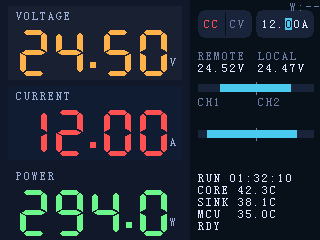
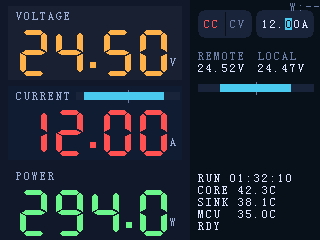
feat(ui): move current mirror bar
Move CH1/CH2 mirror bar next to the left CURRENT label.

Remove right-side CH1/CH2 block; update docs and UI images.

diff --git a/firmware/digital/src/ui/mod.rs b/firmware/digital/src/ui/mod.rs
@@ -43,6 +43,8 @@ const DEBUG_OVERLAY: bool = false;
 const CARD_TOPS: [i32; 3] = [0, 80, 160];
 const CARD_BG_LEFT: i32 = 8;
 const CARD_BG_RIGHT: i32 = 182;
+const MAIN_LABEL_X: i32 = 16;
+const MAIN_DIGITS_RIGHT: i32 = 170;
 // 背景在 Y 方向的偏移：与原设计保持上边距 6px，同时向下扩展到 +80，
 // 以完全覆盖 32x50 的七段字体（area.top = top+28，高度 50 → bottom=top+78）。
 const CARD_BG_TOP_OFFSET: i32 = 6;
@@ -50,7 +52,7 @@ const CARD_BG_BOTTOM_OFFSET: i32 = 80;
 
 // Right-side layout (logical 320×240 coordinate space).
 const VOLTAGE_PAIR_TOP: i32 = 50;
-const CHANNEL_CURRENT_PAIR_TOP: i32 = 96;
+const VOLTAGE_PAIR_BOTTOM: i32 = 96;
 const TELEMETRY_TOP: i32 = 172;
 
 // Control row layout: CC/CV mode + preset target selector.
@@ -195,6 +197,7 @@ pub fn render(frame: &mut RawFrameBuf<Rgb565, &mut [u8]>, data: &UiSnapshot) {
         80,
         rgb(0xFF5252),
     );
+    draw_current_mirror_bar(&mut canvas, data);
     draw_main_metric(
         &mut canvas,
         "POWER",
@@ -211,7 +214,6 @@ pub fn render(frame: &mut RawFrameBuf<Rgb565, &mut [u8]>, data: &UiSnapshot) {
         data.remote_voltage_text.as_str(),
         data.local_voltage_text.as_str(),
     );
-    draw_channel_current_pair(&mut canvas, data);
     draw_telemetry(&mut canvas, data);
 
     render_wifi_status(&mut canvas, data.wifi_status);
@@ -267,6 +269,7 @@ pub fn render_partial(
             80,
             rgb(0xFF5252),
         );
+        draw_current_mirror_bar(&mut canvas, curr);
         draw_main_metric(
             &mut canvas,
             "POWER",
@@ -280,12 +283,7 @@ pub fn render_partial(
     if mask.voltage_pair {
         // 清理右侧电压对所占区域的背景，再重绘标题和条形图。
         canvas.fill_rect(
-            Rect::new(
-                190,
-                VOLTAGE_PAIR_TOP,
-                LOGICAL_WIDTH,
-                CHANNEL_CURRENT_PAIR_TOP,
-            ),
+            Rect::new(190, VOLTAGE_PAIR_TOP, LOGICAL_WIDTH, VOLTAGE_PAIR_BOTTOM),
             rgb(0x080f19),
         );
         let remote_text = curr.remote_voltage_text.as_str();
@@ -294,12 +292,8 @@ pub fn render_partial(
     }
 
     if mask.channel_currents {
-        // 右侧两路电流通道信息：先擦除对应背景区域，再重绘标签与条形图。
-        canvas.fill_rect(
-            Rect::new(190, CHANNEL_CURRENT_PAIR_TOP, LOGICAL_WIDTH, TELEMETRY_TOP),
-            rgb(0x080f19),
-        );
-        draw_channel_current_pair(&mut canvas, curr);
+        // CURRENT 标签右侧的镜像条形图（CH1/CH2），与主电流读数解耦刷新。
+        draw_current_mirror_bar(&mut canvas, curr);
     }
 
     if mask.control_row {
@@ -396,10 +390,27 @@ fn draw_main_metric(
     top: i32,
     digit_color: Rgb565,
 ) {
-    draw_small_text(canvas, label, 16, top + 10, rgb(0x9ab0d8), 0);
-    let area = Rect::new(24, top + 28, 170, top + 72);
+    draw_small_text(canvas, label, MAIN_LABEL_X, top + 10, rgb(0x9ab0d8), 0);
+    let area = Rect::new(24, top + 28, MAIN_DIGITS_RIGHT, top + 72);
     draw_seven_seg_value(canvas, value, &area, digit_color);
     draw_small_text(canvas, unit, area.right, top + 56, rgb(0x9ab0d8), 1);
+}
+
+fn draw_current_mirror_bar(canvas: &mut Canvas, data: &UiSnapshot) {
+    let top = CARD_TOPS[1];
+    let label_width = small_text_width("CURRENT", 0);
+    let bar_left = (MAIN_LABEL_X + label_width + 4).min(CARD_BG_RIGHT - 4);
+    // Keep the bar inside the current card slab; do not spill into the right column.
+    let bar_right = CARD_BG_RIGHT - 2;
+    let bar_top = top + 12;
+    draw_mirror_bar_in_bounds(
+        canvas,
+        bar_top,
+        bar_left,
+        bar_right,
+        data.ch1_current / 5.0,
+        data.ch2_current / 5.0,
+    );
 }
 
 fn draw_voltage_pair(canvas: &mut Canvas, data: &UiSnapshot, left_value: &str, right_value: &str) {
@@ -414,22 +425,13 @@ fn draw_voltage_pair(canvas: &mut Canvas, data: &UiSnapshot, left_value: &str, r
     } else {
         0.0
     };
-    draw_mirror_bar(
+    draw_mirror_bar_in_bounds(
         canvas,
         VOLTAGE_PAIR_TOP + 34,
+        198,
+        314,
         remote_bar,
         data.local_voltage / 40.0,
-    );
-}
-
-fn draw_channel_current_pair(canvas: &mut Canvas, data: &UiSnapshot) {
-    // Only show CH1/CH2 labels + mirror bar; numeric current values are intentionally omitted.
-    draw_pair_header(canvas, ("CH1", ""), ("CH2", ""), CHANNEL_CURRENT_PAIR_TOP);
-    draw_mirror_bar(
-        canvas,
-        CHANNEL_CURRENT_PAIR_TOP + 34,
-        data.ch1_current / 5.0,
-        data.ch2_current / 5.0,
     );
 }
 
@@ -539,10 +541,15 @@ fn draw_pair_header(canvas: &mut Canvas, left: (&str, &str), right: (&str, &str)
     draw_small_text(canvas, right.1, 258, top + 12, rgb(0xdfe7ff), 0);
 }
 
-fn draw_mirror_bar(canvas: &mut Canvas, top: i32, left_ratio: f32, right_ratio: f32) {
+fn draw_mirror_bar_in_bounds(
+    canvas: &mut Canvas,
+    top: i32,
+    left: i32,
+    right: i32,
+    left_ratio: f32,
+    right_ratio: f32,
+) {
     let bar_height = 8;
-    let left = 198;
-    let right = 314;
     let center = (left + right) / 2;
     canvas.fill_rect(Rect::new(left, top, right, top + bar_height), rgb(0x1c2638));
     canvas.draw_line(center, top - 2, center, top + bar_height + 2, rgb(0x6d7fa4));

diff --git a/firmware/digital/src/main.rs b/firmware/digital/src/main.rs
@@ -784,7 +784,7 @@ impl TelemetryModel {
         self.snapshot.remote_voltage = remote_voltage;
         self.snapshot.local_voltage = local_voltage;
         self.snapshot.remote_active = remote_active;
-        // 左侧主电流显示：两通道合计电流；右侧 CH1/CH2 各自显示单通道电流。
+        // 左侧主电流显示：两通道合计电流；CURRENT 标签右侧镜像条形图反映 CH1/CH2 单通道电流。
         self.snapshot.main_current = i_total;
         self.snapshot.ch1_current = i_local;
         self.snapshot.ch2_current = i_remote;

diff --git a/tools/ui-mock/src/main.rs b/tools/ui-mock/src/main.rs
@@ -80,7 +80,10 @@ fn render_snapshot(
 }
 
 fn main() -> Result<(), Box<dyn std::error::Error>> {
-    let out_dir = PathBuf::from("docs/assets/main-display");
+    let repo_root = PathBuf::from(env!("CARGO_MANIFEST_DIR"))
+        .join("..")
+        .join("..");
+    let out_dir = repo_root.join("docs/assets/main-display");
 
     let mut cc = ui::UiSnapshot::demo();
     cc.set_control_overlay(1, false, LoadMode::Cc, false);

diff --git a/docs/interfaces/main-display-ui.md b/docs/interfaces/main-display-ui.md
@@ -8,8 +8,8 @@
 
 ## 需求说明
 
-- 右列 `CH1/CH2`：**只删除电流数值文本**（不再显示 `xx.xxA`），保留 `CH1/CH2` 标签与条形图。
-- 右列 `REMOTE/LOCAL` 电压区块整体**下移**，使其与 `CH1/CH2` 电流区块之间的间隔缩小到“正常间隔”。
+- 左列 `CURRENT`：将两路电流镜像条（CH1/CH2）移动到 `CURRENT` 标签右侧，仅显示条形图（不显示 `CH1/CH2` 文本标签）；条形图宽度自适应剩余空间，不得溢出当前卡片。
+- 右列：删除原 `CH1/CH2` 电流区块（标签与条形图均不显示）。
 - 除以上要点外，其余布局与信息保持不变（control row、左列三大读数、右列 status lines 等）。
 
 ## Panel Constraints
@@ -33,6 +33,7 @@
 | Voltage digits | `#FFB347` | 24.50 (decimal dot rendered manually) | SevenSegNumFont (32×50) | 左区 80 px 高度段 #1：数字/单位右对齐至 x=170，绘制区域 `(24,28)-(170,72)` |
 | Voltage unit | `#9AB0D8` | V | SmallFont | 基线 y=72，与数字紧贴 |
 | Current label | `#9AB0D8` | CURRENT | SmallFont | (16,90) |
+| Current mirror bar | 轨道 `#1C2638`、填充 `#4CC9F0`、中心刻度 `#6D7FA4` | Mirror bar（CH1 left / CH2 right，无标签） | — | `CURRENT` 标签右侧，动态宽度：`x=(label_end+4)..(CARD_BG_RIGHT-2)`（限制在当前卡片背景内，不得溢出到右侧区块）；默认 `CURRENT` 文本宽 56 px → `x=76..180`；`y=92..99` |
 | Current digits | `#FF5252` | 12.00 | SevenSegNumFont | 左区 80 px 高度段 #2：区域 `(24,108)-(170,152)`，右对齐至 x=170 |
 | Current unit | `#9AB0D8` | A | SmallFont | 基线 y=152，与数字相连 |
 | Power label | `#9AB0D8` | POWER | SmallFont | (16,170) |
@@ -46,7 +47,7 @@
 | 左列电压/电流 | 固定 `DD.dd`（4 个数字 + 1 个小数点），四舍五入到 0.01 → 例如 `24.50`, `03.20` | 固定宽度用于布局稳定；两位整数不足时左侧补零。异常/超出显示能力时显示 `99.99`。 |
 | 左列功率 | 固定 `DDD.d`（4 个数字 + 1 个小数点），四舍五入到 0.1 → 例如 `294.0`, `001.1` | 固定宽度用于布局稳定；三位整数不足时左侧补零。异常/超出显示能力时显示 `999.9`。 |
 | 右列远/近端电压 | 固定 `DD.dd` + 单位（例如 `24.52V`），四舍五入到 0.01 | 保持与左侧主读数一致的总位数策略以避免“空间忽大忽小”的观感。 |
-| 右列通道电流 | 显示 `CH1/CH2` 标签 + 条形图，不显示数值文本（不显示 `xx.xxA`） | 只删除数值文本，其它布局不变。 |
+| 电流镜像条 | 仅显示两路镜像条形图（无 `CH1/CH2` 文本标签，不显示单通道数值） | 条形图位于左列 `CURRENT` 标签右侧；右列不再显示 `CH1/CH2` 区块。 |
 | 温度 | 0 或 1 位小数（`37°` 或 `37.8°`），根据传感器噪声门限自动选择 | 单位符号与数值之间保留 1 空格。 |
 | 运行时间、能量 | 现有格式 (`HH:MM:SS`, `125.4Wh`) | 如需更多精度，在右列列表中扩展即可。 |
 
@@ -57,8 +58,6 @@
 | Control row | 模式切换（CC/CV）+ 当前 preset 目标值（单位随模式变更） | SmallFont | 背景 `#1C2638`；CC 文本 `#FF5252`；CV 文本 `#FFB347`；数值 `#DFE7FF`；选中位高亮背景 `#4CC9F0`（高亮位字符改为深色） | 行背景：`y=10..38`；MODE pill `(198,10)-(252,38)`；VALUE pill `(256,10)-(314,38)`；默认选中十分位（0.1），不显示“步长”文本 |
 | Voltage pair | 左列 REMOTE `24.52 V`，右列 LOCAL `24.47 V` | 标签 SmallFont；数值 SmallFont（字符间距 0，强制 4 位数格式） | 文本 `#DFE7FF`、标签 `#6D7FA4` | 左列起点 (198,50)，右列起点 (258,50) |
 | Voltage mirror bar | 中心 0 V，左右各 55 px 行程（上限 40 V） | — | 轨道 `#1C2638`，填充与两侧条统一使用 `#4CC9F0`，中心刻度 `#6D7FA4` | 长条 `(198,84)-(314,91)`，中心 x=256 |
-| Channel current pair | 左列 CH1，右列 CH2（仅标签） | 标签 SmallFont | 标签 `#6D7FA4` | 左列起点 (198,96)，右列起点 (258,96) |
-| Channel current mirror bar | 中心 0 A，左右各 55 px 行程（上限 5 A） | — | 轨道 `#1C2638`，填充 `#4CC9F0`，中心刻度 `#6D7FA4` | 长条 `(198,130)-(314,137)`，中心 x=256 |
 | Status lines (5) | 运行时间 + 温度 + 状态行（例如 `RUN 01:32:10`、`CORE 42.3C`、`SINK 38.1C`、`MCU 35.0C`、`RDY` / `CAL` / `OFF` / `FLT 0x12345678`） | SmallFont | `#DFE7FF` | Right block 底部对齐：Top-left at `(198,172)` 起，每行 +12px，底边距约 12px（**每行最多 15 字符**，避免右侧被裁切） |
 
 ### Status line #5：状态文案（禁止 debug 噪声）
@@ -114,7 +113,7 @@ All fonts were downloaded from http://rinkydinkelectronics.com/r_fonts.php (Publ
    - Sample at 1 kHz, low-pass (α = 0.3), refresh UI at 20 Hz.
    - When a limit is exceeded, flash a 2 px strip along the top edge of the affected card using `#FF5252` (over) or `#6EF58C` (under).
    - Decimal dot: draw a filled 6×6 square at `y = glyph_baseline − 8` so it lines up with the mock.
-   - 左侧 `CURRENT` 仅显示合计电流主读数（数值 + 单位）；两路通道电流以右列 `CH1/CH2` 的镜像条形图表达，不显示数值文本。
+   - 左侧 `CURRENT` 仅显示合计电流主读数（数值 + 单位）；两路通道电流以 `CURRENT` 标签右侧镜像条形图表达（无文字标签，不显示单通道数值文本）。
 2. **Right status**
    - Voltage bars = `clamp(V_measured / V_range)` with default `V_range = 40 V`.
    - **Control row** replaces the legacy “SET I” line:
